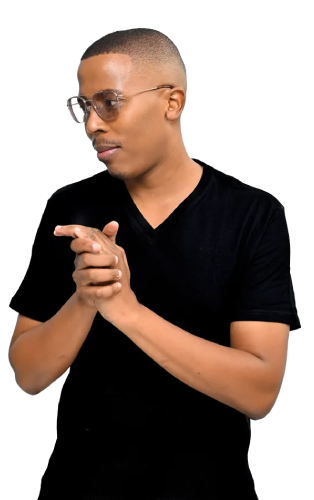
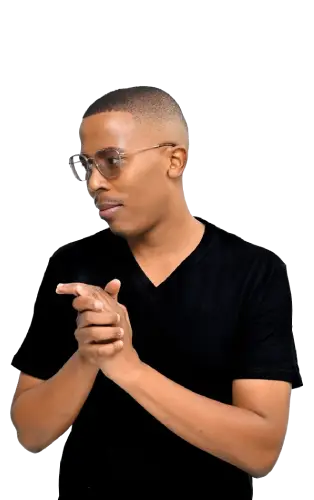
Update artist page layout, styles, and images

diff --git a/app/artists/page.tsx b/app/artists/page.tsx
@@ -83,23 +83,31 @@ const Artists = () => {
 						<div className="relative flex w-full h-full overflow-x-clip">
 							{artists.map((artist, index) => (
 								<motion.div
-									className={cn("absolute flex items-end h-full origin-bottom hover:scale-125 hover:z-[999] duration-300 transition-transform",
-                    index === 0 ? "-left-4 scale-90" : "",
-                    index === numArtists - 1 ? "left-[83%] scale-90 -z-[500]" : "",
-                    index === numArtists - 2 ? "left-[70%] z-[600] scale-105" : "",
-                    index === numArtists - 3 ? "left-[62%] scale-90" : "",
-                    index === numArtists - 4 ? "left-[53%]" : "",
-                    index === numArtists - 5 ? "left-[42%] scale-90" : "",
-                    index === numArtists - 6 ? "left-[31%] scale-105" : "",
-                    index === numArtists - 7 ? "left-[20%] scale-105" : "",
-                    index === numArtists - 8 ? "left-[12%] scale-90" : "",
-                  )}
+									className={cn(
+										"absolute flex items-end h-full origin-bottom  hover:z-[999] duration-300 transition-transform",
+										index === 0 ? "-left-4 scale-90 hover:scale-125" : "",
+										index === numArtists - 1
+											? "left-[83%] scale-90 -z-[500] hover:scale-125"
+											: "",
+										index === numArtists - 2
+											? "left-[70%] z-[600] hover:scale-105"
+											: "",
+										index === numArtists - 3
+											? "left-[62%] hover:scale-125"
+											: "",
+										index === numArtists - 4
+											? "left-[53%] scale-90 hover:scale-105"
+											: "",
+										index === numArtists - 5 ? "left-[42%] " : "",
+										index === numArtists - 6 ? "left-[31%] scale-105" : "",
+										index === numArtists - 7 ? "left-[20%] scale-105" : "",
+										index === numArtists - 8 ? "left-[12%] scale-90" : "",
+									)}
 									key={artist.name}
 									initial={{ opacity: 0 }}
 									animate={{ opacity: 1 }}
 									transition={{ duration: index % 2 === 0 ? 1.1 : 5 }}
 									style={{
-
 										zIndex: index === 5 ? 25 : 0,
 									}}
 								>
@@ -113,8 +121,8 @@ const Artists = () => {
 											className={cn(
 												"transition-transform duration-300 w-full h-full object-cover hover:grayscale-0",
 											)}
-											width={600}
-											height={600}
+											width={400}
+											height={742}
 											src={artist.img}
 											alt={artist.name}
 										/>

diff --git a/artists.ts b/artists.ts
@@ -75,7 +75,7 @@ const artists = [
 	{
 		name: "Jack Devero",
 		slug: "jack",
-		img: "/images/talent/sq/jack_5.webp",
+		img: "/images/talent/sq/jack_tall_2.webp",
 		image: "/images/talent/slug/jack.webp",
 		banner: "/images/talent/banners/jack.png",
 		width: 314,
@@ -111,7 +111,7 @@ const artists = [
 	{
 		name: "Vafa",
 		slug: "vafa",
-		img: "/images/talent/sq/vafa.png",
+		img: "/images/talent/sq/vafa_tall-1.webp",
 		image: "/images/talent/sq/vafa.png",
 		banner: "/images/talent/banners/vafa.png",
 		width: 532,
